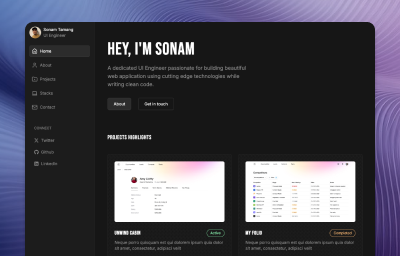
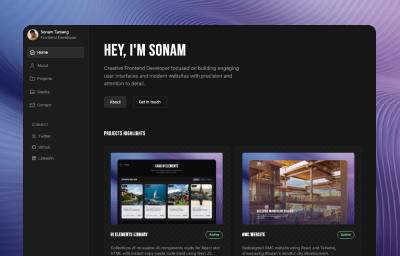
Update project images

diff --git a/src/data/projects.js b/src/data/projects.js
@@ -53,7 +53,7 @@ export const projects = [
       "Location-based services",
     ],
     images: ["/images/project-2.png"],
-    screenShot: ["/images/screenshot-1.png"],
+    screenShot: ["/images/screenshot-2.png"],
     githubUrl: "https://github.com/SonamTamang90/my-folio",
     role: "Frontend Developer",
     status: "Completed",
@@ -78,7 +78,7 @@ export const projects = [
       "Location-based services",
     ],
     images: ["/images/project-3.png"],
-    screenShot: ["/images/screenshot-2.png"],
+    screenShot: ["/images/screenshot-3.png"],
     githubUrl: "https://github.com/SonamTamang90/gmc",
     role: "Frontend Developer",
     status: "Active",
